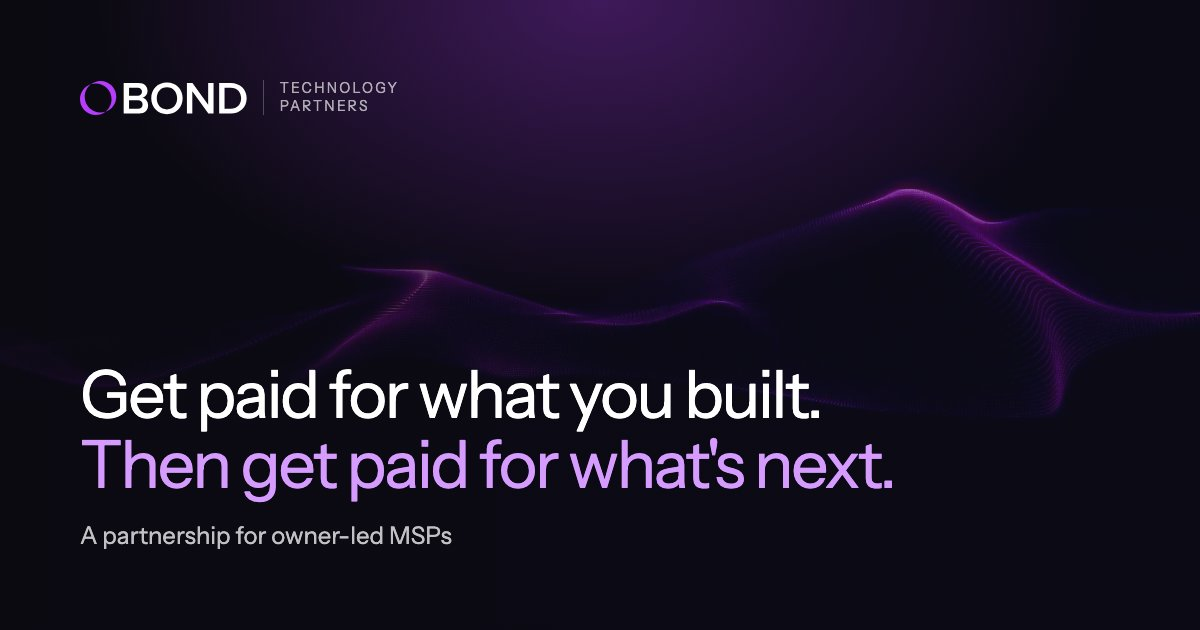
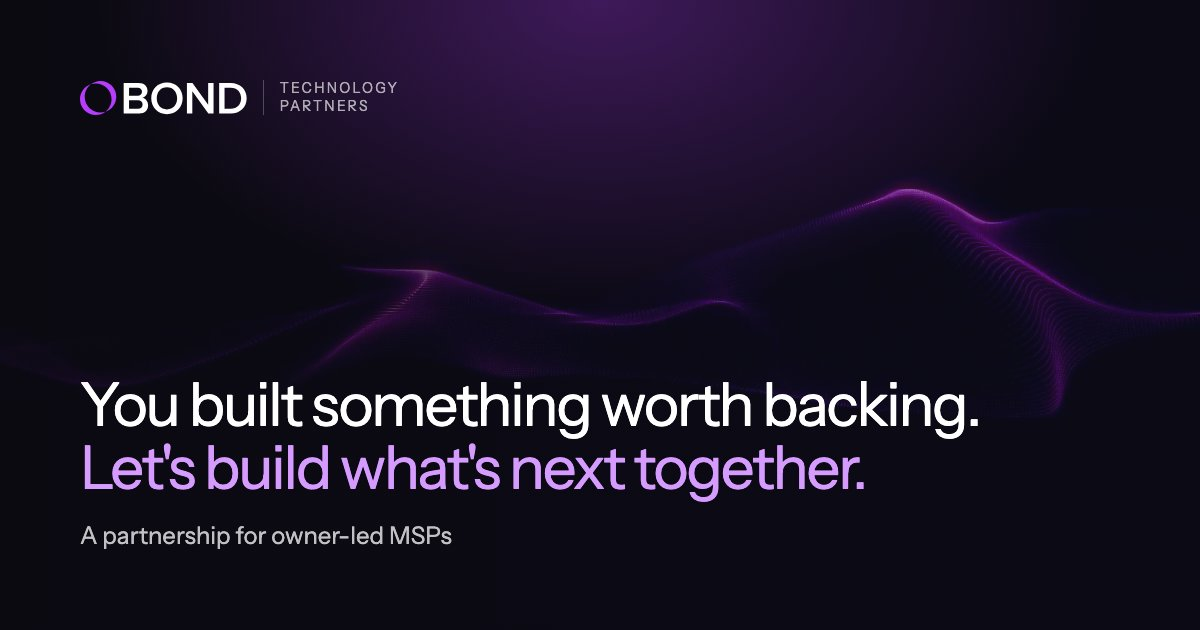
New hero headline: You built something worth backing
Updates the headline, share image and preview text, widens the hero so
the headline sits on two lines, and removes a repeated "together".

Changed region(s): [[0.0617, 0.573, 0.8325, 0.8143]]

diff --git a/index.html b/index.html
@@ -16,18 +16,18 @@
   <meta property="og:locale" content="en_US">
   <meta property="og:url" content="https://bondmsp.com/">
   <meta property="og:title" content="Bond Technology Partners | Sell Your MSP & Scale Together">
-  <meta property="og:description" content="Get paid for what you built. Then get paid for what's next. A partnership for owner-led MSPs built to scale together.">
+  <meta property="og:description" content="You built something worth backing. Let's build what's next together. A partnership for owner-led MSPs built to scale together.">
   <meta property="og:image" content="https://bondmsp.com/assets/og-image.jpg">
   <meta property="og:image:width" content="1200">
   <meta property="og:image:height" content="630">
-  <meta property="og:image:alt" content="Bond Technology Partners: Get paid for what you built. Then get paid for what's next.">
+  <meta property="og:image:alt" content="Bond Technology Partners: You built something worth backing. Let's build what's next together.">
 
   <!-- Twitter / X -->
   <meta name="twitter:card" content="summary_large_image">
   <meta name="twitter:title" content="Bond Technology Partners | Sell Your MSP & Scale Together">
-  <meta name="twitter:description" content="Get paid for what you built. Then get paid for what's next. A partnership for owner-led MSPs built to scale together.">
+  <meta name="twitter:description" content="You built something worth backing. Let's build what's next together. A partnership for owner-led MSPs built to scale together.">
   <meta name="twitter:image" content="https://bondmsp.com/assets/og-image.jpg">
-  <meta name="twitter:image:alt" content="Bond Technology Partners: Get paid for what you built. Then get paid for what's next.">
+  <meta name="twitter:image:alt" content="Bond Technology Partners: You built something worth backing. Let's build what's next together.">
 
   <!-- Icons -->
   <link rel="icon" href="favicon.ico" sizes="48x48">
@@ -40,7 +40,7 @@
   <link rel="preconnect" href="https://fonts.gstatic.com" crossorigin>
   <link rel="preload" as="image" href="assets/media/hero-poster.webp" type="image/webp" fetchpriority="high">
   <link href="https://fonts.googleapis.com/css2?family=Instrument+Sans:wght@400;500;600&display=swap" rel="stylesheet">
-  <link rel="stylesheet" href="styles.css?v=21">
+  <link rel="stylesheet" href="styles.css?v=22">
 
   <script type="application/ld+json">
 [
@@ -193,8 +193,8 @@
       <img class="hero__mark" src="assets/bond-mark.svg" alt="" aria-hidden="true" width="560" height="523">
       <div class="wrap hero__copy">
         <p class="pill-label"><span></span>A partnership for owner-led MSPs</p>
-        <h1>Get paid for what you built.<br><em>Then get paid for what's next.</em></h1>
-        <p class="lede">Take your MSP to the next level. Join a group of IT services firms built to scale together, with our talent, technology and operating expertise behind you to grow faster than you ever could alone.</p>
+        <h1>You built something worth backing.<br><em>Let's build what's next together.</em></h1>
+        <p class="lede">Take your MSP to the next level. Join a group of IT services firms built to scale, with our talent, technology and operating expertise behind you to grow faster than you ever could alone.</p>
         <div class="hero__cta">
           <a class="btn" href="#contact">Start a confidential conversation</a>
           <a class="btn btn--ghost" href="#model">How it works</a>

diff --git a/styles.css b/styles.css
@@ -143,7 +143,7 @@ p { margin: 0; }
   position: absolute; width: 560px; right: -150px; bottom: -190px; opacity: .07; pointer-events: none;
   -webkit-mask-image: linear-gradient(180deg, #000 30%, transparent 62%); mask-image: linear-gradient(180deg, #000 30%, transparent 62%);
 }
-.hero__copy { position: relative; z-index: 2; max-width: 1080px; }
+.hero__copy { position: relative; z-index: 2; max-width: 1240px; }
 .pill-label {
   display: inline-flex; align-items: center; gap: 10px;
   padding: 7px 16px; border-radius: 999px;
@@ -152,7 +152,7 @@ p { margin: 0; }
   margin-bottom: 30px;
 }
 .pill-label span { width: 7px; height: 7px; border-radius: 50%; background: var(--violet); box-shadow: 0 0 12px var(--violet); }
-.hero h1 { font-size: clamp(40px, 6.4vw, 76px); font-weight: 400; letter-spacing: -0.035em; line-height: 1.04; }
+.hero h1 { font-size: clamp(38px, 5.6vw, 74px); font-weight: 400; letter-spacing: -0.035em; line-height: 1.04; }
 .hero h1 em { font-style: normal; color: var(--violet-light); }
 .lede { max-width: 720px; margin: 28px auto 0; font-size: 19px; color: rgba(255,255,255,.72); }
 .hero__scroll {
